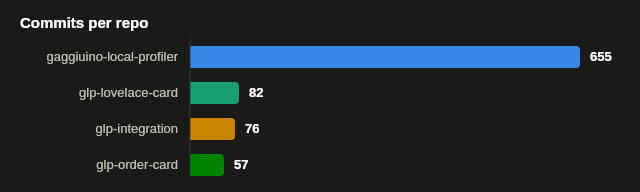
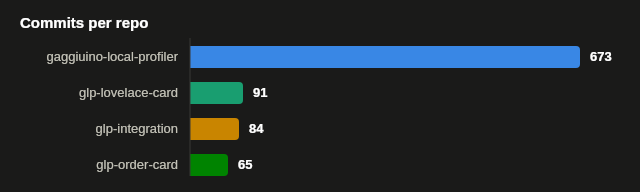
Release v2.19.1 (#531)
Version bump (constants.js, config.yaml, package.json), CHANGELOG entry
covering the token-storage security fix (#524), the dev-stats
branch-independence fix now actually working (#527/#528/#529/#530), and the
ESLint/release-check CI gate (#519/#520). Regenerated dev-stats with the
corrected historyScope() (673 commits for this repo, up from 655 — confirms
the #530 fix works). README screenshots for analytics-machines.png and
flavor-wheel.png remain stale, tracked as a known blocker in #526.

diff --git a/gaggiuino-local-profiler/lib/constants.js b/gaggiuino-local-profiler/lib/constants.js
@@ -3,7 +3,7 @@ if (typeof File === 'undefined') {
     try { global.File = require('buffer').File; } catch { global.File = class File {}; }
 }
 
-const GLP_VERSION  = '2.19.0';
+const GLP_VERSION  = '2.19.1';
 const DEFAULT_PORT = 8099;
 
 const DATA_DIR             = '/data';

diff --git a/gaggiuino-local-profiler/CHANGELOG.md b/gaggiuino-local-profiler/CHANGELOG.md
@@ -1,3 +1,16 @@
+## [2.19.1] – 2026-07-26
+
+### Security
+- **The GLP API token is no longer persisted to `localStorage`, and any existing token there is removed automatically on next load.** CodeQL flagged `js/clear-text-storage-of-sensitive-data` at `api.js:17`. Tracing the token-acquisition path showed ingress requests are authorized purely by Supervisor IP + `X-Ingress-Path` (`server.js` `isIngressRequest()`), never by a client-held token, so `initToken()` fetches a fresh token from `/api/token` on every load regardless of any client-side cache — the `localStorage` copy was a pure round-trip optimization with no legitimate flow depending on it. The token now lives only in memory (`S.glpToken`) and is refetched each load; a stale token already sitting in a browser's `localStorage` from a previous version is cleared on the next page load. Closes #522
+
+### Changed
+- **`scripts/dev-stats.mjs`'s repo-history scope is now genuinely branch-independent, not just intended to be.** The first attempt at this (measuring `--remotes=origin` instead of the checked-out `HEAD`) shipped with an unquoted `--format=%(refname)` argument passed through `execSync`'s `/bin/sh`; the parentheses aborted the shell before git ran, the resulting throw landed in the same catch used for "no origin refs," and the scope silently degraded back to `HEAD` — so the fix never actually took effect, and a run from a release worktree still undercounted (caught during this release: 621 vs. the published 655). The follow-up drops the format string entirely (`for-each-ref --count=1 <pattern>` needs none — empty output already means "no such refs"), makes the catch warn on stderr instead of swallowing silently, and adds two tests against a real temporary git repo, verified to fail against the old implementation. `DEVELOPMENT.md` numbers in this release reflect the corrected, working scope. Closes #527, #529
+- **Added an ESLint 9 flat-config CI gate and a `scripts/release-check.mjs` sanity script for releases.** `npm run lint` is now wired into CI after `npm ci` and before `build`, with Node/browser/vitest globals split by path glob; baseline lint cleanup was mechanical fixes plus a few narrowly justified inline disables, no behavior change. `release-check.mjs` is a read-only, no-network script for manual release use, checking version-file consistency, the CHANGELOG heading, screenshot/dev-stats freshness, and DOCS.md/DOCS.de.md heading parity. Closes #519
+- Refreshed README screenshots and dev-stats as part of wiring up the new release gate. Closes #523
+
+### Known issue
+- Two README screenshots (`analytics-machines.png`, `flavor-wheel.png`) are stale as of this release — the underlying UI elements don't render against the current seed data, tracked as a possible real UI bug rather than a screenshot-script problem. See #526.
+
 ## [2.19.0] – 2026-07-26
 
 ### Removed

diff --git a/DEVELOPMENT.md b/DEVELOPMENT.md
@@ -8,15 +8,15 @@ The GLP ecosystem (this app + 3 companion repos) has been in development since *
 
 | Repo | First commit | Last commit | Commits | Claude co-authored |
 |---|---|---|---|---|
-| gaggiuino-local-profiler | 2026-05-20 | 2026-07-26 | 655 | 506 (77%) |
-| glp-integration | 2026-05-22 | 2026-07-14 | 76 | 61 (80%) |
-| glp-lovelace-card | 2026-05-24 | 2026-07-26 | 82 | 70 (85%) |
-| glp-order-card | 2026-05-25 | 2026-07-26 | 57 | 46 (81%) |
-| **Combined** | **2026-05-20** | **2026-07-26** | **870** | **683 (79%)** |
+| gaggiuino-local-profiler | 2026-05-20 | 2026-07-26 | 673 | 521 (77%) |
+| glp-integration | 2026-05-22 | 2026-07-26 | 84 | 62 (74%) |
+| glp-lovelace-card | 2026-05-24 | 2026-07-26 | 91 | 77 (85%) |
+| glp-order-card | 2026-05-25 | 2026-07-26 | 65 | 52 (80%) |
+| **Combined** | **2026-05-20** | **2026-07-26** | **913** | **712 (78%)** |
 
 ![Commits per repo](docs/dev-stats/commits-per-repo.png)
 
-Combined line changes (insertions + deletions across all commits): **269.521**, of which **205.431** landed in Claude-co-authored commits.
+Combined line changes (insertions + deletions across all commits): **278.715**, of which **211.007** landed in Claude-co-authored commits.
 
 Commits without a Claude co-author line are presumed human-only (manual fixes, merges, config tweaks) — not independently verified.
 
@@ -25,10 +25,12 @@ Commits without a Claude co-author line are presumed human-only (manual fixes, m
 | Model | Commits |
 |---|---|
 | Claude Sonnet 4.6 | 348 |
-| Claude Sonnet 5 | 237 |
+| Claude Sonnet 5 | 257 |
 | Claude Opus 4.8 | 47 |
 | Claude Fable 5 | 40 |
 | Claude | 11 |
+| Claude Opus 5 | 5 |
+| Claude Haiku 4.5 | 4 |
 
 ![Claude model breakdown by commits](docs/dev-stats/model-breakdown.png)
 
@@ -38,7 +40,7 @@ The exact co-author string varies by era as model names changed over the project
 
 This is **not** measured token usage or an actual invoice. It multiplies changed lines (insertions + deletions) in Claude-co-authored commits by an assumed 25 tokens/line (covers the conversation and planning overhead around a diff, not just the diff bytes), then applies the price table in `scripts/dev-stats.pricing.json` — which ships with every price set to `null` until you fill in your own plan/API rates.
 
-**Estimated cost: ~$31.11** across 202.168 priced lines (+ 3.264 lines from unpriced models, excluded from this total).
+**Estimated cost: ~$31.33** across 204.455 priced lines (+ 6.553 lines from unpriced models, excluded from this total).
 
 ---
 *This file is generated. Do not hand-edit — re-run `node scripts/dev-stats.mjs` instead.*
